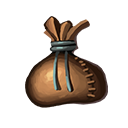
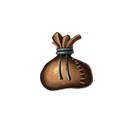
Misc fixes
Synergize implemented

Smithing Hammer VFX toned down, upgrade functionality fixed

Booster Pack  relic error fixed

Bag of Holding relic shrunk

Changed region(s): [[0.1875, 0.125, 0.8438, 0.8438]]

diff --git a/src/main/java/thePackmaster/cards/coresetpack/Synergize.java b/src/main/java/thePackmaster/cards/coresetpack/Synergize.java
@@ -1,10 +1,18 @@
 package thePackmaster.cards.coresetpack;
 
+import com.megacrit.cardcrawl.actions.AbstractGameAction;
+import com.megacrit.cardcrawl.actions.common.ApplyPowerAction;
+import com.megacrit.cardcrawl.cards.AbstractCard;
 import com.megacrit.cardcrawl.characters.AbstractPlayer;
+import com.megacrit.cardcrawl.dungeons.AbstractDungeon;
 import com.megacrit.cardcrawl.monsters.AbstractMonster;
+import com.megacrit.cardcrawl.powers.VulnerablePower;
+import thePackmaster.SpireAnniversary5Mod;
 import thePackmaster.cards.AbstractPackmasterCard;
+import thePackmaster.util.Wiz;
 
 import static thePackmaster.SpireAnniversary5Mod.makeID;
+import static thePackmaster.SpireAnniversary5Mod.packsByID;
 
 public class Synergize extends AbstractPackmasterCard {
     public final static String ID = makeID("Synergize");
@@ -19,7 +27,20 @@ public class Synergize extends AbstractPackmasterCard {
 
     public void use(AbstractPlayer p, AbstractMonster m) {
         blck();
-        //TODO Conditonal AOE
+        addToBot(new AbstractGameAction() {
+            @Override
+            public void update() {
+                isDone = true;
+                if (AbstractDungeon.actionManager.cardsPlayedThisCombat.size() >= 2){
+                    AbstractCard c = AbstractDungeon.actionManager.cardsPlayedThisCombat.get(AbstractDungeon.actionManager.cardsPlayedThisCombat.size() - 2);
+                    if (c instanceof AbstractPackmasterCard){
+                        if (((AbstractPackmasterCard)c).getParent().packID != getParent().packID){
+                            allDmg(AbstractGameAction.AttackEffect.LIGHTNING);
+                        }
+                    }
+                }
+            }
+        });
     }
 
     public void upp() {

diff --git a/src/main/java/thePackmaster/SpireAnniversary5Mod.java b/src/main/java/thePackmaster/SpireAnniversary5Mod.java
@@ -83,6 +83,7 @@ public class SpireAnniversary5Mod implements
     public static Color characterColor = new Color(MathUtils.random(), MathUtils.random(), MathUtils.random(), 1); // This should be changed eventually
 
     public static boolean doPackSetup = false;
+    public static String lastCardsPackID = null;
     public static boolean openedStarterScreen = false;
     public static int PACKS_PER_RUN = 7;
     public static CurrentRunCardsTopPanelItem currentRunCardsTopPanelItem;
@@ -566,6 +567,7 @@ public class SpireAnniversary5Mod implements
     public ArrayList<String> onSave() {
         ArrayList<String> packIDs = new ArrayList<>();
         for (AbstractCardPack pack : currentPoolPacks) {
+            BaseMod.logger.info("Saving pack: " + pack.packID);
             packIDs.add(pack.packID);
         }
         return packIDs;
@@ -574,6 +576,7 @@ public class SpireAnniversary5Mod implements
     @Override
     public void onLoad(ArrayList<String> strings) {
         for (String s : strings) {
+            BaseMod.logger.info("Loading pack: " + s);
             currentPoolPacks.add(packsByID.get(s));
         }
     }
@@ -585,4 +588,5 @@ public class SpireAnniversary5Mod implements
             BaseMod.addTopPanelItem(currentRunCardsTopPanelItem);
         }
     }
+
 }

diff --git a/src/main/java/thePackmaster/relics/PMBoosterPack.java b/src/main/java/thePackmaster/relics/PMBoosterPack.java
@@ -3,6 +3,7 @@ package thePackmaster.relics;
 import com.megacrit.cardcrawl.dungeons.AbstractDungeon;
 import com.megacrit.cardcrawl.helpers.CardLibrary;
 import com.megacrit.cardcrawl.rewards.RewardItem;
+import com.megacrit.cardcrawl.rooms.AbstractRoom;
 import thePackmaster.ThePackmaster;
 
 import static thePackmaster.SpireAnniversary5Mod.*;
@@ -26,7 +27,9 @@ public class PMBoosterPack extends AbstractPackmasterRelic {
 
         AbstractDungeon.getCurrRoom().addCardReward(r);
 
-        AbstractDungeon.combatRewardScreen.open(this.DESCRIPTIONS[1]);
-        AbstractDungeon.getCurrRoom().rewardPopOutTimer = 0.0F;
+        if (AbstractDungeon.getCurrRoom().phase != AbstractRoom.RoomPhase.COMPLETE) {
+            AbstractDungeon.combatRewardScreen.open(this.DESCRIPTIONS[1]);
+            AbstractDungeon.getCurrRoom().rewardPopOutTimer = 0.0F;
+        }
     }
 }

diff --git a/src/main/java/thePackmaster/cards/coresetpack/SmithingHammer.java b/src/main/java/thePackmaster/cards/coresetpack/SmithingHammer.java
@@ -20,19 +20,16 @@ public class SmithingHammer extends AbstractPackmasterCard {
     public SmithingHammer() {
         super(ID, 1, CardType.ATTACK, CardRarity.COMMON, CardTarget.ENEMY);
         baseDamage = 3;
-        baseMagicNumber = 1;
+        baseMagicNumber = magicNumber = 1;
     }
 
     public void use(AbstractPlayer p, AbstractMonster m) {
         Wiz.vfx(new UpgradeShineEffect(m.hb.cX, m.hb.cY));
         dmg(m, AbstractGameAction.AttackEffect.NONE);
         dmg(m, AbstractGameAction.AttackEffect.NONE);
-        Wiz.atb(new WaitAction(Settings.ACTION_DUR_FAST));
-        Wiz.vfx(new UpgradeShineEffect(m.hb.cX, m.hb.cY));
         dmg(m, AbstractGameAction.AttackEffect.NONE);
         for (int i = 0; i < magicNumber; i++) {
             this.addToBot(new UpgradeRandomCardAction());
-            if(!upgraded) break;
         }
     }
 

diff --git a/src/main/java/thePackmaster/cards/Rummage.java b/src/main/java/thePackmaster/cards/Rummage.java
@@ -29,7 +29,7 @@ public class Rummage extends AbstractPackmasterCard {
                 ArrayList<AbstractCard> possCardsList = new ArrayList<>();
 
                 for (AbstractCard q : AbstractDungeon.player.hand.group) {
-                    if (!q.freeToPlay())
+                    if (!q.freeToPlay() && q.cost>=0)
                         possCardsList.add(q);
                 }
 
